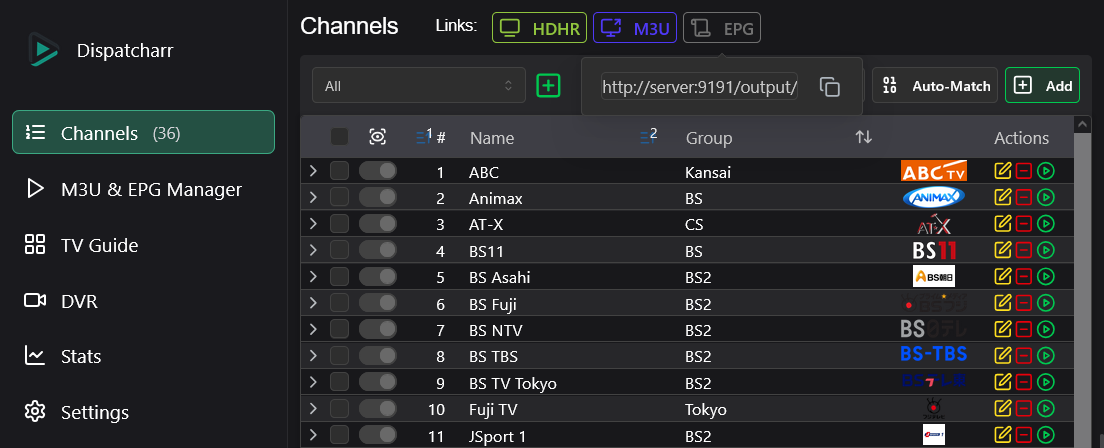
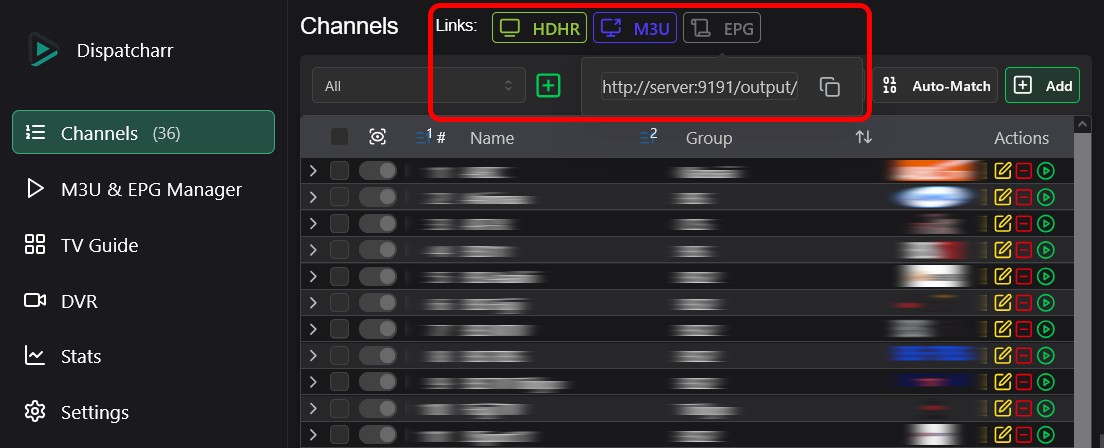
Add Jellyfin setup to getting-started
Updated and added some assets

diff --git a/docs/getting-started.md b/docs/getting-started.md
@@ -60,7 +60,34 @@ Create your user account by entering a username and password that you will remem
 	
 ### Media Playback Setup
 #### Jellyfin
-add content here
+##### Add TV source
+- Jellyfin can accept HDHR or M3U format. 
+- In Dispatcharr, navigate to the "Channels" page then click either the HDHR or M3U buttons at the top of the page, and copy the provided URL.  
+=== "HDHR"
+    ??? info "Screenshot"
+        ![Find HDHR URL](assets/find_hdhr_url.png)
+	
+=== "M3U"
+    ??? info "Screenshot"
+        ![Find M3U URL](assets/find_m3u_url.png)
+
+- Navigate to your Jellyfin page and click the Admin Panel Icon to manage your Jellyfin server.  
+- Click "Live TV" under the Live TV section, then the '+' button next to "Tuner Devices".  
+??? info "Screenshot"
+    ![Jellyfin LiveTV Setup Tuner](assets/jellyfin_livetv_setup_tuner.png)
+- Under 'Tuner Type', choose HD Homerun if using the HDHR URL, or M3U Tuner if using the M3U URL from Dispatcharr.  
+- Paste the URL and save.  
+!!! note
+    If adding as M3U, leave the Simultaneous stream limit set as "0", since stream limits will be handled by Dispatcharr.  
+##### Add Guide Data Source
+- To add guide data from Dispatcharr, navigate to the Dispatcharr "Channels" page then click the EPG button at the top of the page and copy the provided URL.
+??? info "Screenshot"
+    ![Find EPG URL](assets/find_epg_url.png)
+- In Jellyfin Live TV settings page, click the '+' next to "TV Guide Data Providers".
+??? info "Screenshot"
+    ![Jellyfin Add EPG](assets/jellyfin_add_epg.png)
+- Choose 'XMLTV' and paste the URL
+- EPG data will be automatically mapped.
 
 ---
 
@@ -97,12 +124,27 @@ add content here
 ---
 
 #### Emby
-
+##### Add TV source
 - Emby can accept HDHR or M3U format. 
 - In Dispatcharr, navigate to the "Channels" page then click either the HDHR or M3U buttons at the top of the page, and copy the provided URL.  
+=== "HDHR"
+    ??? info "Screenshot"
+        ![Find HDHR URL](assets/find_hdhr_url.png)
+	
+=== "M3U"
+    ??? info "Screenshot"
+        ![Find M3U URL](assets/find_m3u_url.png)
 - Navigate to your Emby page and click the Settings icon to manage your emby server.  
 - Click "Live TV", then "Add TV source".  
 - Choose HD Homerun if using the HDHR URL, or M3U if using the M3U URL from Dispatcharr.  
 - Paste the URL and save.  
 !!! note
-    If adding as M3U in Emby, leave the Simultaneous stream limit set as "0", since stream limits will be handled by Dispatcharr.
+    If adding as M3U, leave the Simultaneous stream limit set as "0", since stream limits will be handled by Dispatcharr.  
+##### Add Guide Data Source
+- You can use Emby provided guide data, guide data from dispatcharr, or a combination of both.
+  - To add Emby provided guide data, click "Add Guide Data Source", choose your country, then choose "Emby Guide Data" under Guide Data Source and hit Next.
+  - Follow the provided prompts to find the channel data you need. You may add multiple Emby Guide Data sources if needed.
+  - Emby will attempt to match channels to guide data, but you may need to manually map the guide data to your channels. You can do so at "Live TV" > Channels, or in the Emby metadata manager.
+  - To add guide data from dispatcharr, navigate to the dispatcharr "Channels" page then click the EPG button at the top of the page and copy the provided URL.
+  - In Emby Live TV settings page, click "Add Guide Data Source", choose your country, then choose "XMLTV" Guide Data Source and hit Next.
+  - EPG data will be automatically mapped.

diff --git a/docs/user-guide.md b/docs/user-guide.md
@@ -123,8 +123,8 @@ From this page you can add and maintain your M3U accounts and EPGs
 
 ###Stream Profiles
 * There are 4 default stream profiles with the ability to create your own custom ones
-    * ffmpeg - Dispatcharr will proxy streams via ffmpeg. No transcoding takes place with the default ffmpeg stream profile, it just copies the original audio and video streams. Uses more CPU than proxy
-    * Proxy - Proxies the original streams, allowing you to use Dispatcharr features (redundant streams per channel) with less CPU usage
+    * ffmpeg - Dispatcharr will proxy streams via ffmpeg. No transcoding takes place with the default ffmpeg stream profile, it will just remux streams. Uses more system resources than proxy
+    * Proxy - Proxies the original streams, allowing you to use Dispatcharr features (redundant streams per channel), and adds a slight buffer to help with stream stability. Uses fewer system resources than ffmpeg
     * Redirect - Redirects the original M3U stream URL to your client. There is no proxying with this profile
     * streamlink - For custom streams based on the services supported by [streamlink](https://streamlink.github.io/)
 * Custom Stream Profiles - create your own custom stream profile by clicking the "Add Stream Profile" button on the Settings page
